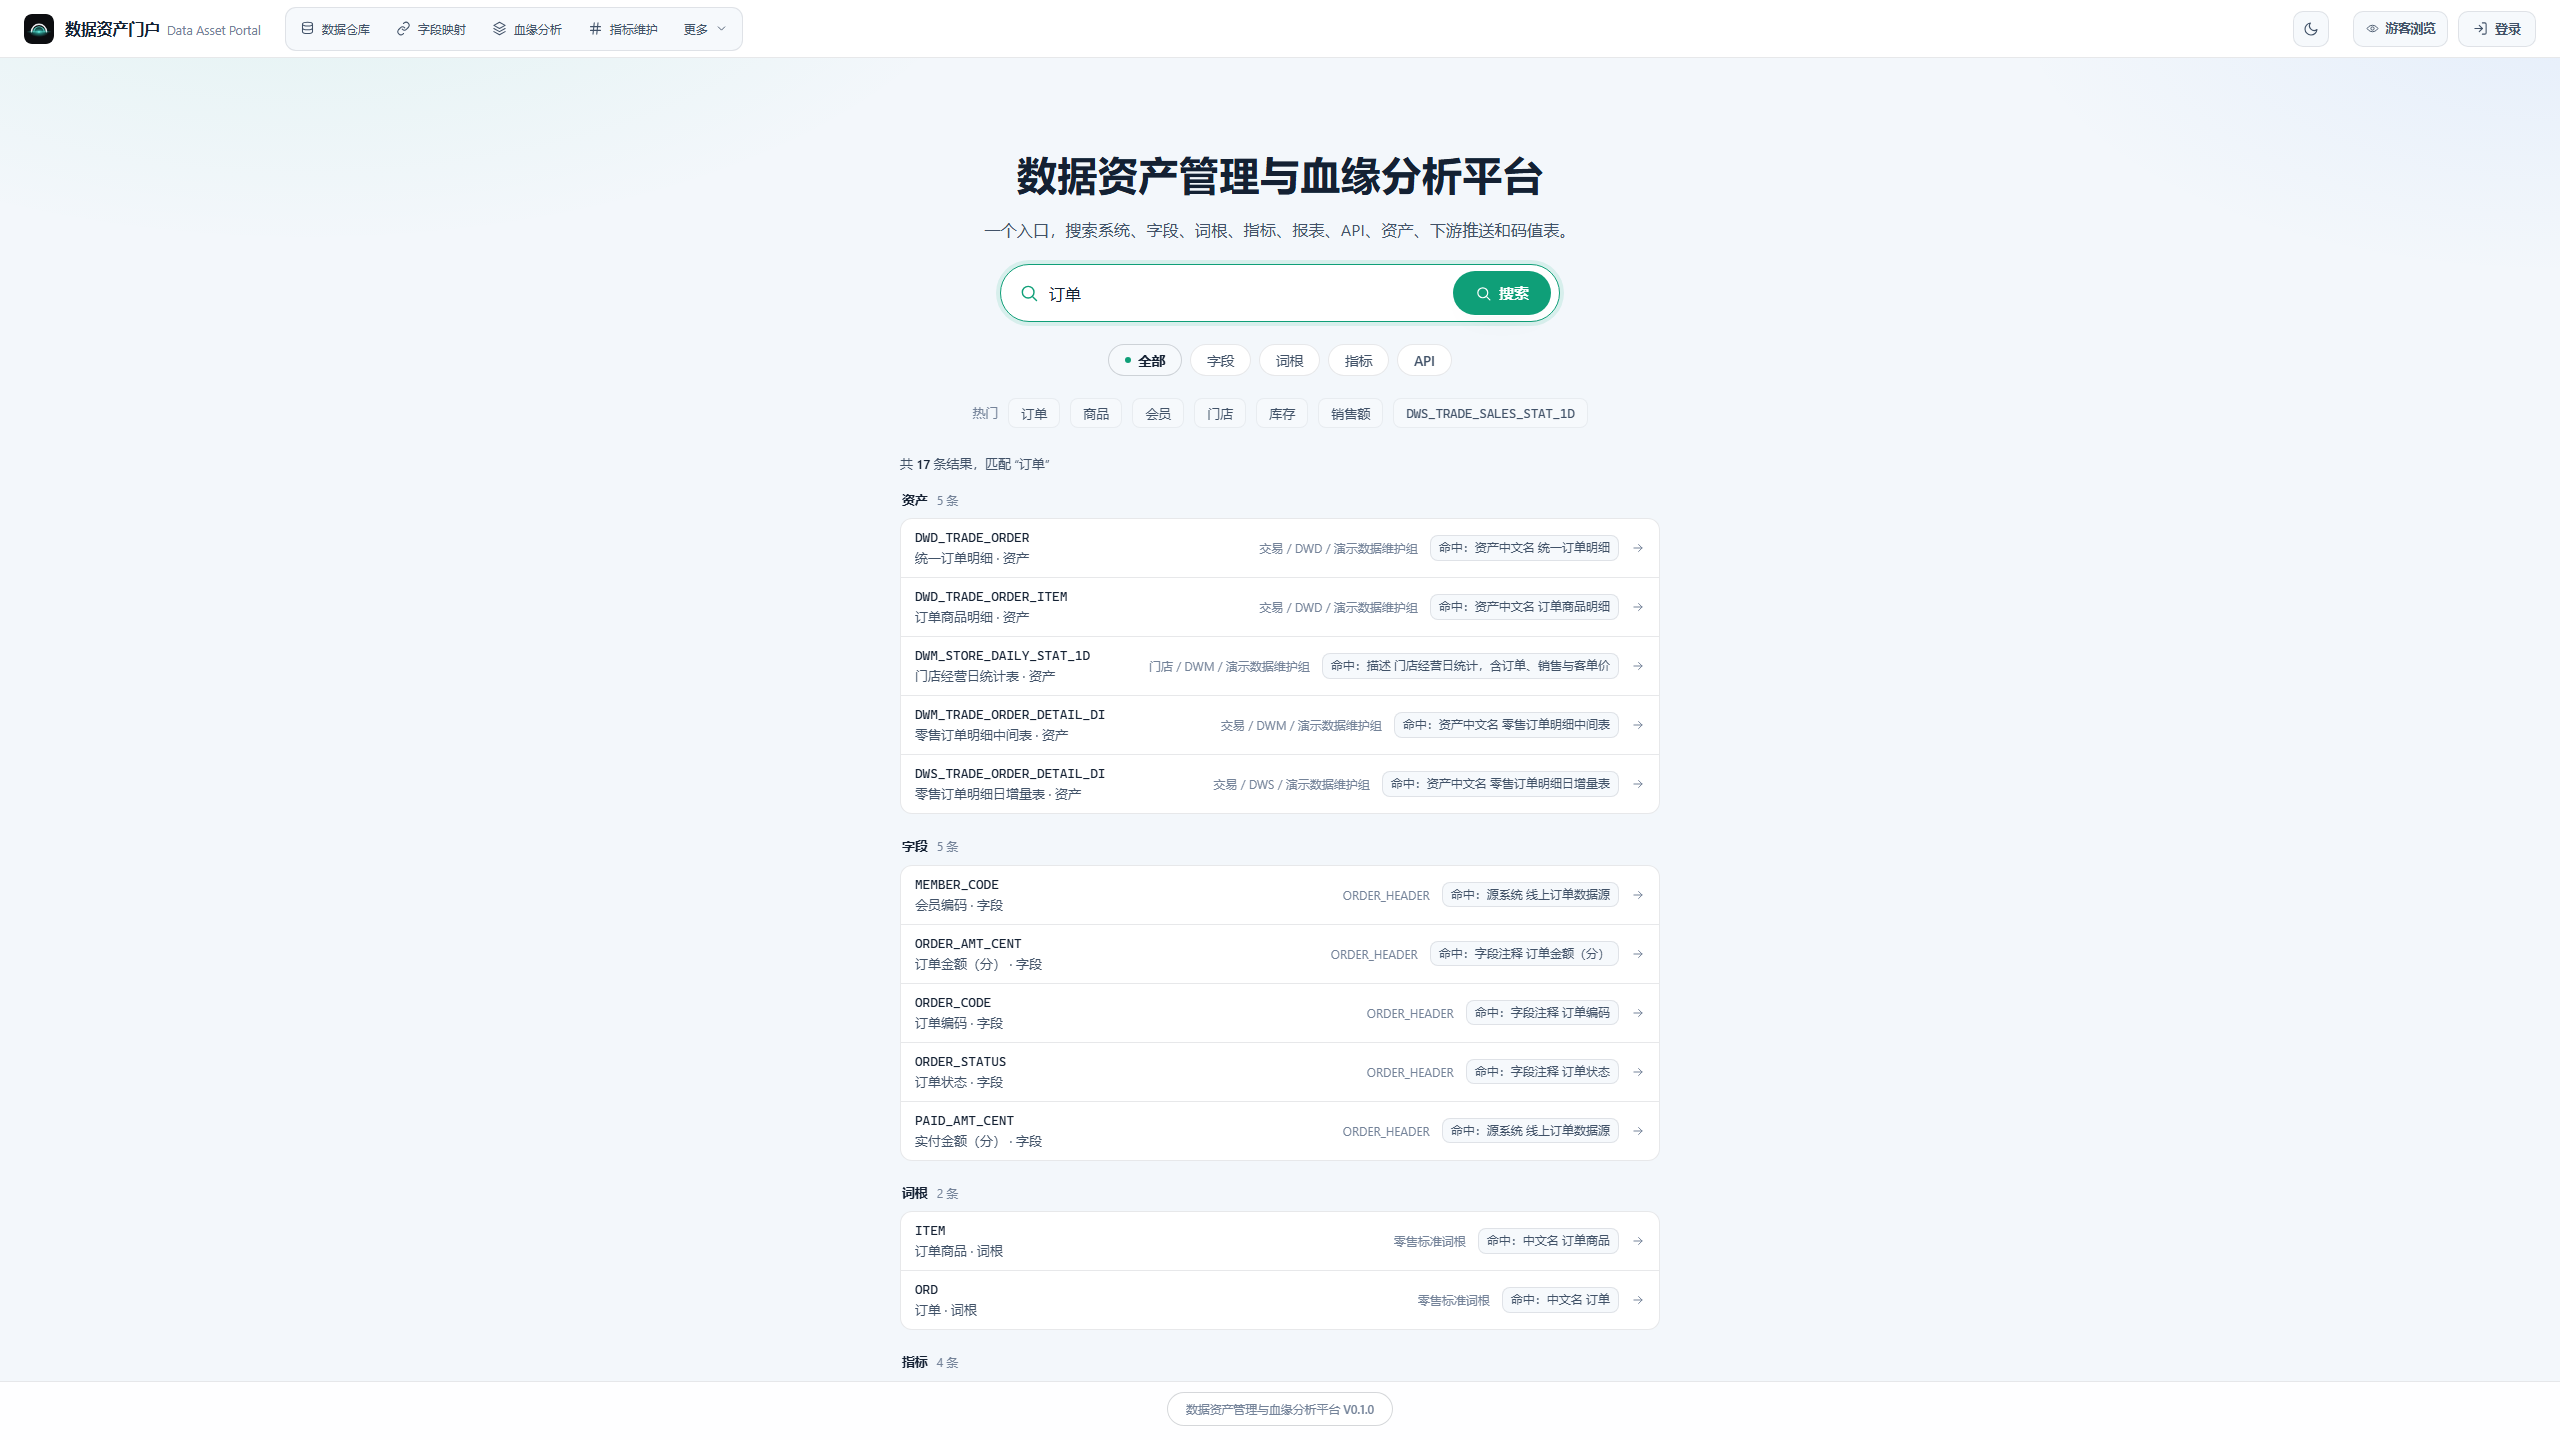
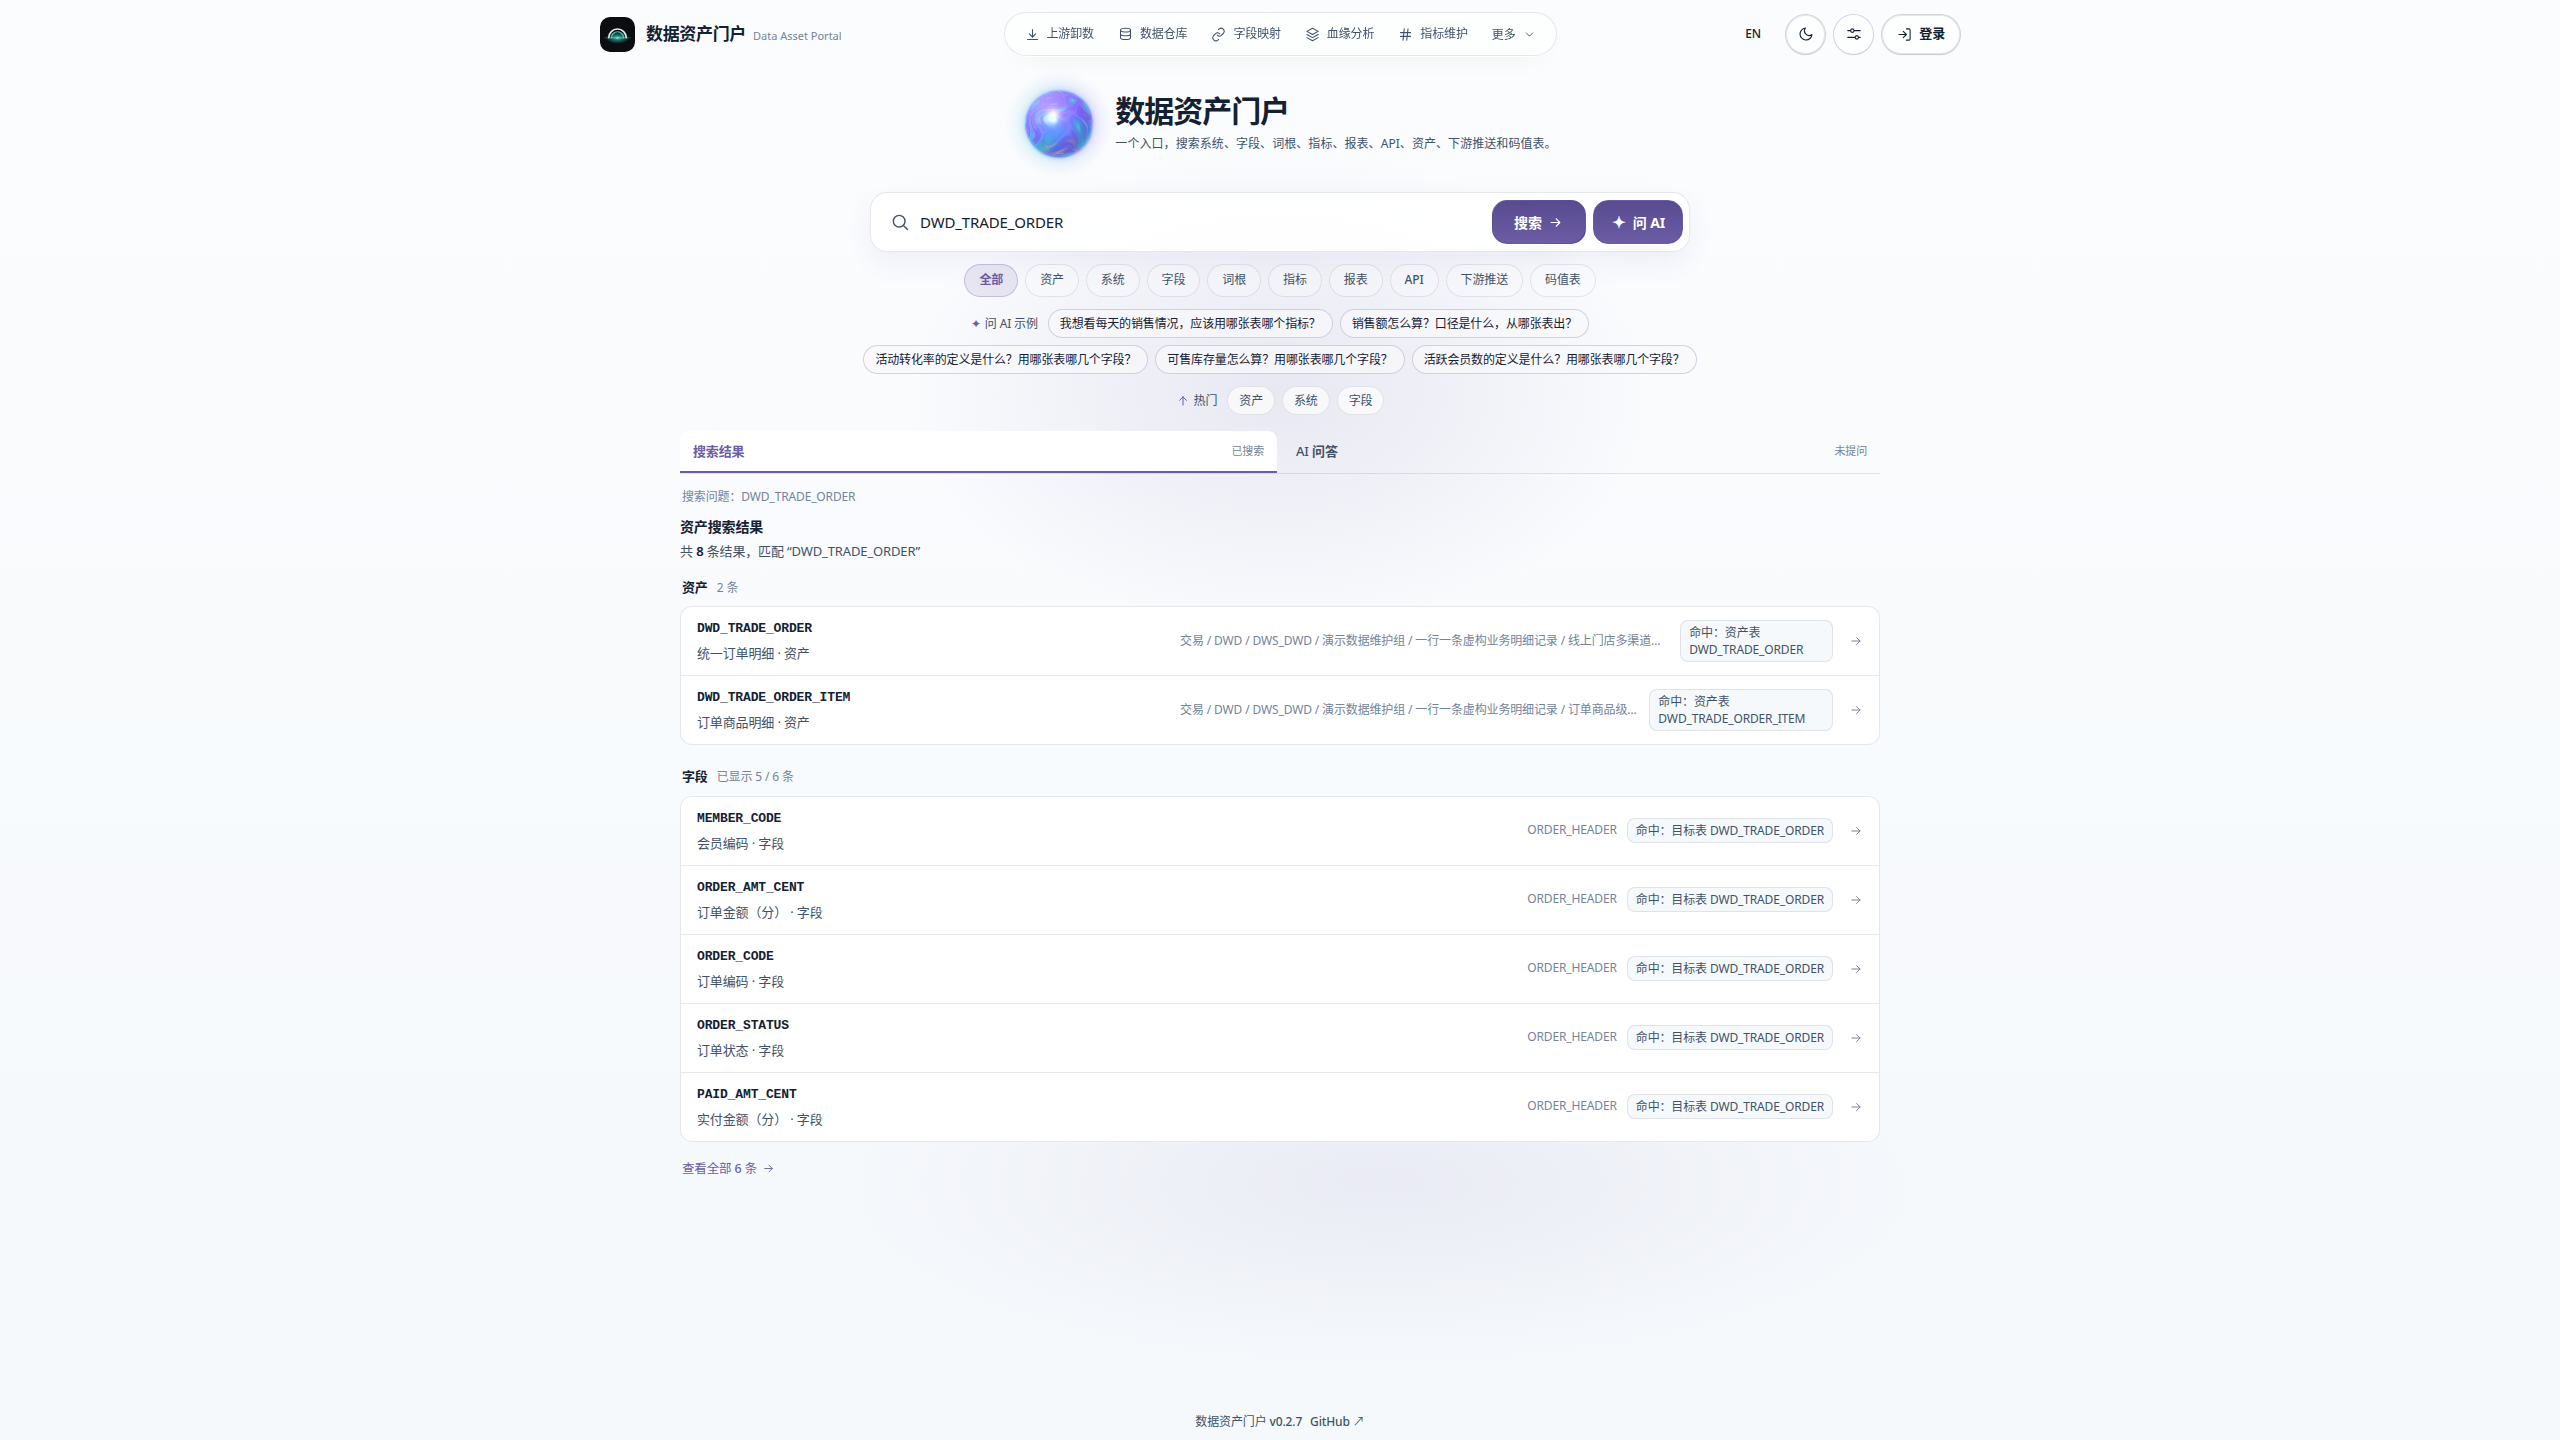
[docs] README 画廊截图整体更新为线上站 v0.2.7（紫色主题，2560×1440） (#645)
* docs(screenshots): 画廊改为线上站 v0.2.7 截图说明，新增 7 个模块章节

* docs(screenshots): 更新 9 张并新增 7 张线上站 v0.2.7 界面截图

diff --git a/docs/screenshots.md b/docs/screenshots.md
@@ -1,8 +1,8 @@
 # 📸 界面截图画廊
 
-> 以下截图均来自仓库 **Repository Community Demo**（`demo/datasets/` 虚构零售数据）真实运行的
-> **SQLite → Service → FastAPI/Uvicorn → Frontend** 链路，前端无任何写死的演示假数据。
-> 截图基于 `2560×1440` 视口拍摄；完整可复现流程见 [Community Demo 指南](./community-demo.md)。它们不代表线上独立 static/mock bundle，也不自动代表当前 `origin/main` 的全部 route coverage。
+> 以下截图于 2026-11-25 拍摄自线上演示站 **data.overme.cn**（v0.2.7，暮光紫主题色），
+> 基于 `2560×1440` 视口。站内数据为虚构零售演示数据，每日自动重置。
+> 此前画廊截图为 V0.1.0 旧界面，已整体替换；界面继续演进时截图会再次过期，请以线上站为准。
 
 ## 资产门户总览
 
@@ -34,6 +34,12 @@
 
 ![统一搜索](./images/demo-global-search.png)
 
+## AI 问答
+
+输入业务问题，问 AI 给出执行过程、命中资产与已核实来源，直接定位到表和字段。
+
+![AI 问答](./images/demo-ai-qa.png)
+
 ## 字段映射
 
 源系统表 → DWD 目标表的字段映射，8 个源系统、48 个字段 100% 覆盖。
@@ -56,6 +62,42 @@
 
 ![指标维护](./images/demo-indicators.png)
 
+## 上游卸数
+
+8 个源系统接入卡片，含连接状态、卸数周期与最近运行结果。
+
+![上游卸数](./images/demo-source-ingestion.png)
+
+## 血缘分析
+
+以 DWD_TRADE_ORDER 为中心的上下游血缘图与节点详情（快照 demo-lineage-20260712-001）。
+
+![血缘分析](./images/demo-lineage.png)
+
+## 报表资产
+
+8 张报表资产，含所属部门、负责人、用途与血缘表数。
+
+![报表资产](./images/demo-report-assets.png)
+
+## API 资产
+
+10 个数据服务 API，含方法、路径、归属系统与负责人。
+
+![API 资产](./images/demo-api-assets.png)
+
+## 下游推送
+
+6 个下游系统与 6 个推送文件，含协议、频率与最近状态。
+
+![下游推送](./images/demo-downstream-push.png)
+
+## 码值表维护
+
+3 张码值表（渠道、会员等级、订单状态），含字段结构与启用行数。
+
+![码值表维护](./images/demo-code-tables.png)
+
 ## 系统管理 · 参数字典
 
 11 类参数字典、49 项字典值统一维护（需以 Community Demo 演示账号登录）。
@@ -67,5 +109,5 @@
 ## 说明
 
 - 所有数据均为**虚构零售演示数据**，不包含任何真实业务信息。
-- 截图来自 repository Community remote path，保留截图生成时的 Footer 内容；当前源码在构建时从最新稳定 GitHub Release 注入 `vX.Y.Z`，旧截图或已部署 bundle 不会被远端 Release 自动改写。线上 static Demo 仍是独立构建和部署。
-- 血缘分析页暂未纳入公开截图，因为 Remote 模式需要先发布 ACTIVE 血缘快照；未出现在画廊不表示该 route 在所有 profile 都不可用。
+- 截图来自线上演示站 data.overme.cn（v0.2.7），保留拍摄时的页脚版本与主题色（暮光紫，为本地外观设置；演示站默认主题为翠绿）。
+- 参数字典截图以演示管理员账号登录拍摄，其余截图为访客态（问 AI 不需要登录即可使用）。
